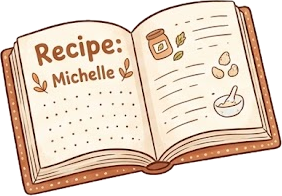
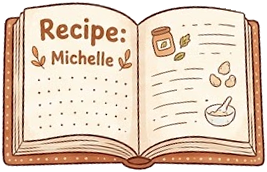
Inset sink, flat recipe book, oven ding, who-it-helps sections
- Sink: wood removed, basin set into the counter above a full cabinet; towel gone
- Recipe book leveled on a taller stand with About Me on the backboard
- Oven Projects label on its own nameplate
- Every project card gets a Who It Helps section
- Resume, Email Me and the light switch are plain underlined text
- Oven-timer ding (Web Audio) when the cookie is fully baked

diff --git a/index.html b/index.html
@@ -10,7 +10,7 @@
   <link rel="preconnect" href="https://fonts.gstatic.com" crossorigin>
   <link href="https://fonts.googleapis.com/css2?family=Cormorant+Garamond:ital,wght@0,400;0,500;1,400;1,500&family=Playfair+Display:ital,wght@0,400;0,600;1,400;1,600&display=swap" rel="stylesheet">
   <script>try{if(localStorage.getItem('theme')==='dark')document.documentElement.dataset.theme='dark'}catch(e){}</script>
-  <link rel="stylesheet" href="css/style.css?v=24">
+  <link rel="stylesheet" href="css/style.css?v=25">
 </head>
 <body class="kitchen-page">
 
@@ -102,9 +102,10 @@
             <circle cx="135" cy="438" r="5" fill="var(--mustard)"/>
           </g>
 
-          <!-- label on the bottom drawer -->
-          <text x="200" y="712" text-anchor="middle" class="serif" font-size="19" font-weight="600" fill="var(--line)">Projects</text>
-          <line class="uline" x1="168" y1="717" x2="232" y2="717" stroke="var(--terracotta)" stroke-width="2"/>
+          <!-- nameplate on the bottom drawer, so the label sits on a clean background -->
+          <rect x="154" y="689" width="92" height="28" rx="6" fill="#fbf1dc" class="ol" stroke-width="2"/>
+          <text x="200" y="709" text-anchor="middle" class="serif" font-size="17" font-weight="600" fill="var(--line)">Projects</text>
+          <line class="uline" x1="172" y1="712" x2="228" y2="712" stroke="var(--terracotta)" stroke-width="1.5"/>
         </g>
 
         <g class="steam" transform="translate(0,-16)">
@@ -219,21 +220,15 @@
         </g>
       </g>
 
-      <!-- tea towel -->
-      <g class="ol" stroke-width="2.5">
-        <path d="M628 556 H658 V632 H628 Z" fill="var(--paper)"/>
-        <rect x="628" y="606" width="30" height="5" fill="var(--terracotta)" stroke="none"/>
-        <rect x="628" y="615" width="30" height="3" fill="var(--night)" stroke="none"/>
-      </g>
-
       <!-- countertop -->
       <rect x="334" y="500" width="816" height="24" rx="3" fill="var(--terracotta)" class="ol"/>
 
       <!-- ============ SINK (easter egg: tap it) ============ -->
       <g id="sink" class="hotspot" role="button" tabindex="0" aria-label="Turn the tap on or off" aria-pressed="false">
-        <image href="assets/stickers/sink.png" x="542" y="401.6" width="202.2" height="157.8"/>
+        <!-- apron sink set into the counter: faucet on the countertop, basin where the middle drawer was -->
+        <image href="assets/stickers/sink.png" x="563.5" y="425" width="159" height="157.8"/>
         <g class="water">
-          <line x1="625" y1="442" x2="625" y2="498" stroke="#9fd0e6" stroke-width="6" stroke-dasharray="8 4" stroke-linecap="round"/>
+          <line x1="625" y1="463" x2="625" y2="522" stroke="#9fd0e6" stroke-width="6" stroke-dasharray="8 4" stroke-linecap="round"/>
         </g>
       </g>
       <!-- plant on counter -->
@@ -279,17 +274,16 @@
       <!-- ============ RECIPE BOOK → about ============ -->
       <a id="book" class="hotspot" href="#about" aria-label="Recipe for Michelle: about me">
         <g class="lift">
-          <!-- wooden recipe stand: back panel, book, then the ledge + feet in front -->
+          <!-- wooden recipe stand: tall backboard with the label, the book lying flat on the ledge, feet in front -->
           <g class="ol" stroke-width="2.5" fill="var(--wood)">
-            <rect x="354" y="364" width="132" height="112" rx="4"/>
+            <rect x="350" y="338" width="140" height="138" rx="5"/>
             <path d="M362 476 L352 500 M478 476 L488 500" fill="none" stroke="var(--wood)" stroke-width="6"/>
           </g>
-          <image href="assets/stickers/recipe-book.png" x="345" y="372" width="150" height="104.3"/>
+          <text x="420" y="364" text-anchor="middle" class="serif" font-size="18" font-weight="600" fill="var(--line)">About Me</text>
+          <line class="uline" x1="386" y1="369" x2="454" y2="369" stroke="var(--line)" stroke-width="1.5"/>
+          <image href="assets/stickers/recipe-book.png" x="345" y="378" width="150" height="96.6"/>
           <rect x="340" y="472" width="160" height="9" rx="3" fill="var(--wood)" class="ol" stroke-width="2.5"/>
         </g>
-        <!-- label on the countertop edge, since the sticker already says "Recipe: Michelle" -->
-        <text x="420" y="517" text-anchor="middle" font-family="Cormorant Garamond, serif" font-style="italic" font-size="14" fill="#fbf1dc">(About Me)</text>
-        <line class="uline" x1="390" y1="520" x2="450" y2="520" stroke="#fbf1dc" stroke-width="1.5"/>
       </a>
 
       <!-- ============ MESSY DESSERT COUNTER → fun ============ -->
@@ -362,7 +356,7 @@
           <p class="quick-facts">Python · SQL · R · Machine learning · Quantum computing</p>
           <div class="about-actions">
             <a class="btn" href="assets/resume.pdf" target="_blank" rel="noopener">Resume (PDF) ↗</a>
-            <a class="btn ghost" href="mailto:michelle.zuo@duke.edu">Email Me</a>
+            <a class="btn" href="mailto:michelle.zuo@duke.edu">Email Me</a>
           </div>
         </div>
       </div>
@@ -552,9 +546,9 @@
       if (e.key === 'Enter' || e.key === ' ') { e.preventDefault(); toggle(); }
     });
   </script>
-  <script src="js/projects.js?v=21"></script>
+  <script src="js/projects.js?v=22"></script>
   <script src="js/fun.js?v=21"></script>
-  <script src="js/progress.js?v=20"></script>
+  <script src="js/progress.js?v=21"></script>
   <script src="js/theme.js?v=20"></script>
 </body>
 </html>

diff --git a/css/style.css b/css/style.css
@@ -286,20 +286,17 @@ body.kitchen-page { background: var(--cream); }
 .detail-note { margin-top: 18px; font-family: var(--f-serif); font-style: italic; font-size: 19px; }
 /* recruiter-friendly bits on the about page */
 .quick-facts { margin: -20px 0 16px; font-size: 14px; color: #8a7d6b; }
-.about-actions { display: flex; flex-wrap: wrap; gap: 10px; }
+.about-actions { display: flex; flex-wrap: wrap; gap: 22px; }
+/* plain text links, just underlined */
 .btn {
-  display: inline-block;
-  padding: 8px 16px;
-  border-radius: 999px;
-  border: 1.5px solid var(--terracotta);
-  background: var(--terracotta);
-  color: #fff;
-  font-size: 14px;
+  color: var(--terracotta);
+  font-size: 15px;
   font-weight: 600;
-  text-decoration: none;
+  text-decoration: underline;
+  text-decoration-thickness: 1.5px;
+  text-underline-offset: 4px;
 }
-.btn.ghost { background: none; color: var(--terracotta); }
-.btn:hover, .btn:focus-visible { filter: brightness(1.08); }
+.btn:hover, .btn:focus-visible { text-decoration-thickness: 2.5px; }
 .skills {
   display: grid;
   grid-template-columns: 90px 1fr;
@@ -667,12 +664,9 @@ body.tray-page { background: #fff; }
   display: flex;
   align-items: center;
   gap: 8px;
-  padding: 6px 12px 6px 8px;
-  border: 1.5px solid rgba(75, 42, 28, .3);
-  border-radius: 999px;
-  background: rgba(255, 250, 241, .85);
-  -webkit-backdrop-filter: blur(6px);
-  backdrop-filter: blur(6px);
+  padding: 6px 4px;
+  border: 0;
+  background: none;
   color: var(--ink);
   font: 600 10.5px/1 var(--f-body);
   letter-spacing: .16em;
@@ -681,6 +675,7 @@ body.tray-page { background: #fff; }
   transition: background .3s, color .3s, border-color .3s;
 }
 .light-switch:focus-visible { outline: 3px solid var(--mustard); outline-offset: 2px; }
+.light-switch:hover .ls-label { text-decoration: underline; text-underline-offset: 3px; }
 .light-switch .plate {
   position: relative;
   width: 18px;
@@ -700,13 +695,13 @@ body.tray-page { background: #fff; }
   background: var(--line);
   transition: top .2s ease;
 }
-@media (max-width: 480px) { .light-switch .ls-label { display: none; } .light-switch { padding: 6px; } }
+@media (max-width: 480px) { .light-switch .ls-label { display: none; } }
 
 /* ---------- night mode: the kitchen lights are off ---------- */
 body, .site-footer { transition: background-color .4s ease, color .4s ease; }
 :root[data-theme="dark"] { color-scheme: dark; }
 :root[data-theme="dark"] body { background: #15100c; color: #efe3cf; }
-:root[data-theme="dark"] .light-switch { background: rgba(30, 22, 17, .85); color: #efe3cf; border-color: rgba(239, 227, 207, .25); }
+:root[data-theme="dark"] .light-switch { color: #efe3cf; }
 :root[data-theme="dark"] .light-switch .plate { background: #3a2a1f; border-color: #efe3cf; }
 :root[data-theme="dark"] .light-switch .nub { top: 13px; background: #efe3cf; }
 :root[data-theme="dark"] .back { color: #e39b76; }
@@ -755,7 +750,7 @@ body, .site-footer { transition: background-color .4s ease, color .4s ease; }
 :root[data-theme="dark"] .recipe-meta { color: #a8987f; }
 :root[data-theme="dark"] .chips span { background: #3a2d24; border-color: #5a4535; color: #efe3cf; }
 :root[data-theme="dark"] .quick-facts { color: #a8987f; }
-:root[data-theme="dark"] .btn.ghost { color: #e39b76; border-color: #e39b76; }
+:root[data-theme="dark"] .btn { color: #e39b76; }
 :root[data-theme="dark"] .links a,
 :root[data-theme="dark"] .card .card-hint,
 :root[data-theme="dark"] .recipe-kicker { color: #e39b76; }

diff --git a/js/projects.js b/js/projects.js
@@ -26,6 +26,10 @@ const PROJECTS = [
           'Validated end to end on a real HIV-1 antigen/antibody pair.',
         ],
       },
+      {
+        heading: 'Who It Helps',
+        text: 'Researchers searching for new antibodies, and the patients waiting on them. Narrowing down where an antibody binds before going to the lab means fewer slow, expensive experiments, so treatments for diseases like HIV and COVID-19 can arrive sooner.',
+      },
     ],
     links: [{ label: 'Code on GitHub', href: 'https://github.com/michellezuo/FindAQure' }],
   },
@@ -45,6 +49,10 @@ const PROJECTS = [
           'No data leakage: the 64-feature pipeline is fit on training data only.',
           'Evaluated with ROC curves and confusion matrices.',
         ],
+      },
+      {
+        heading: 'Who It Helps',
+        text: 'Online stores, especially small ones. Knowing which visitors are likely to buy helps a shop spend its time and marketing where it matters, instead of guessing.',
       },
     ],
     links: [],
@@ -69,6 +77,10 @@ const PROJECTS = [
           'Building a self-serve dashboard demo with a shared metrics dictionary.',
         ],
       },
+      {
+        heading: 'Who It Helps',
+        text: 'People looking for birth control that works for them. ADYN uses hormone and genetic data to personalize it, so better insight from that data means less trial and error for patients. The dashboard also lets ADYN’s own team answer questions without waiting on an analyst.',
+      },
     ],
     links: [{ label: 'ADYN’s Science', href: 'https://adyn.com/science/' }],
   },
@@ -88,6 +100,10 @@ const PROJECTS = [
           'Selected nationally; presented to all program teams, then kept going with the professor.',
         ],
       },
+      {
+        heading: 'Who It Helps',
+        text: 'Anyone trying to understand elections: researchers, journalists and voters. A clearer picture of how swing-state voters behave helps explain outcomes and makes election analysis more transparent.',
+      },
     ],
     links: [{ label: 'Preprint on arXiv', href: 'https://arxiv.org/abs/2510.26867' }],
   },
@@ -106,6 +122,10 @@ const PROJECTS = [
           'Used entanglement to guide the algorithm, in Python.',
           'Iterated on the design with a faculty mentor and 2 other researchers every two weeks.',
         ],
+      },
+      {
+        heading: 'Who It Helps',
+        text: 'Chemists and scientists designing new medicines and materials. Simulating molecules is one of the most promising uses of quantum computers, and a more efficient ADAPT-VQE gets those simulations closer to practical.',
       },
     ],
     links: [],
@@ -130,6 +150,10 @@ const PROJECTS = [
           'No frameworks. This tray renders itself from one small data file.',
           'Keyboard-friendly, responsive, and respects reduced motion.',
         ],
+      },
+      {
+        heading: 'Who It Helps',
+        text: 'Recruiters, classmates and anyone curious about me: one place to see my work, my resume and what I care about. It’s keyboard-friendly and works on phones, so it’s easy for everyone to use.',
       },
     ],
     links: [{ label: 'Code on GitHub', href: 'https://github.com/michellezuo/michellezuo.github.io' }],

diff --git a/js/progress.js b/js/progress.js
@@ -58,7 +58,36 @@
     return `rgb(${STOPS[STOPS.length - 1][1].join(',')})`;
   }
 
+  // oven timer "ding" when the cookie is fully baked, made with Web Audio so there's no sound file.
+  // browsers only allow sound after the visitor has clicked/tapped/typed, so unlock on the first one.
+  let audio = null;
+  const unlock = () => {
+    try {
+      audio = audio || new (window.AudioContext || window.webkitAudioContext)();
+      if (audio.state === 'suspended') audio.resume();
+    } catch (e) { /* no audio support: stay quiet */ }
+  };
+  ['pointerdown', 'keydown', 'touchend'].forEach(ev => window.addEventListener(ev, unlock, { once: true, passive: true }));
+  function ding() {
+    if (!audio || audio.state !== 'running') return;
+    const now = audio.currentTime;
+    // a bell is a few out-of-tune partials that ring and fade
+    [[1318.5, .22], [3290, .07], [2637, .05]].forEach(([freq, vol]) => {
+      const osc = audio.createOscillator();
+      const gain = audio.createGain();
+      osc.type = 'sine';
+      osc.frequency.value = freq;
+      gain.gain.setValueAtTime(0, now);
+      gain.gain.linearRampToValueAtTime(vol, now + .005);
+      gain.gain.exponentialRampToValueAtTime(.0001, now + 1.6);
+      osc.connect(gain).connect(audio.destination);
+      osc.start(now);
+      osc.stop(now + 1.7);
+    });
+  }
+
   let queued = false;
+  let wasDone = null;  // null until the first update, so a page that loads already "done" doesn't ding
   function update() {
     queued = false;
     const max = document.documentElement.scrollHeight - window.innerHeight;
@@ -72,6 +101,9 @@
     dough.style.fill = doughColor(t);
     chips.style.opacity = String(Math.min(1, t * 1.6));
     const done = pct >= 99;
+    if (done && wasDone === false) ding();
+    // re-arm once they scroll back up a bit, so it can ding again
+    if (done || pct < 90 || wasDone === null) wasDone = done;
     pill.classList.toggle('done', done);
     label.textContent = done ? 'Fully Baked!' : `${pct}% Baked`;
     pill.setAttribute('aria-valuenow', String(pct));
